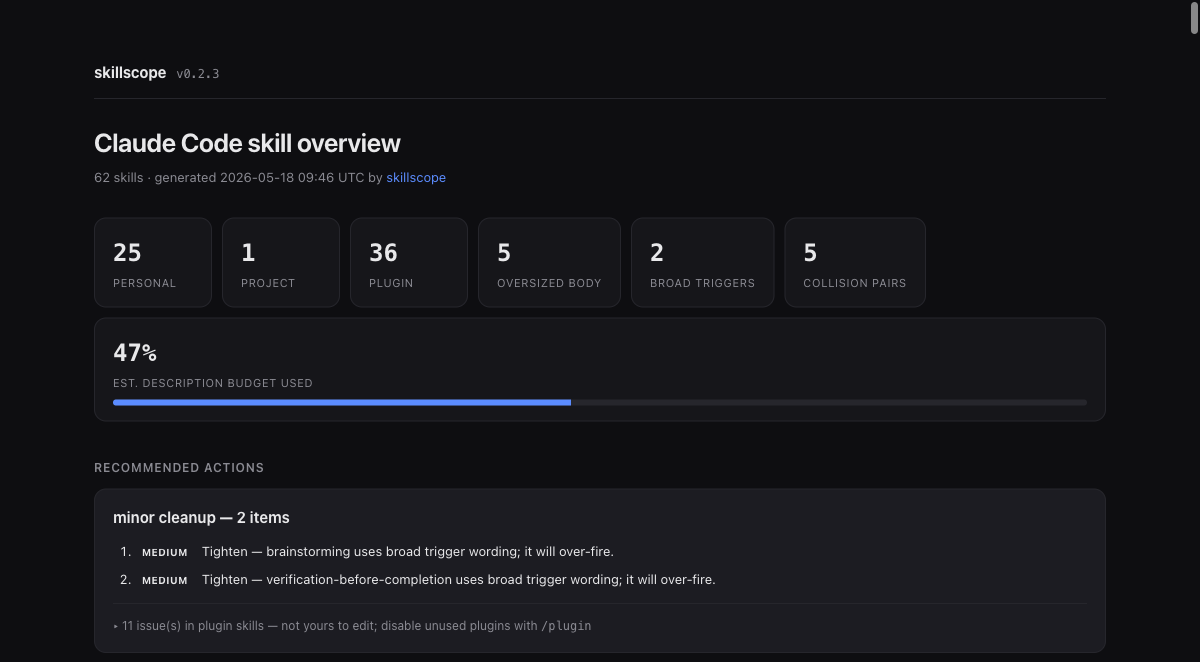
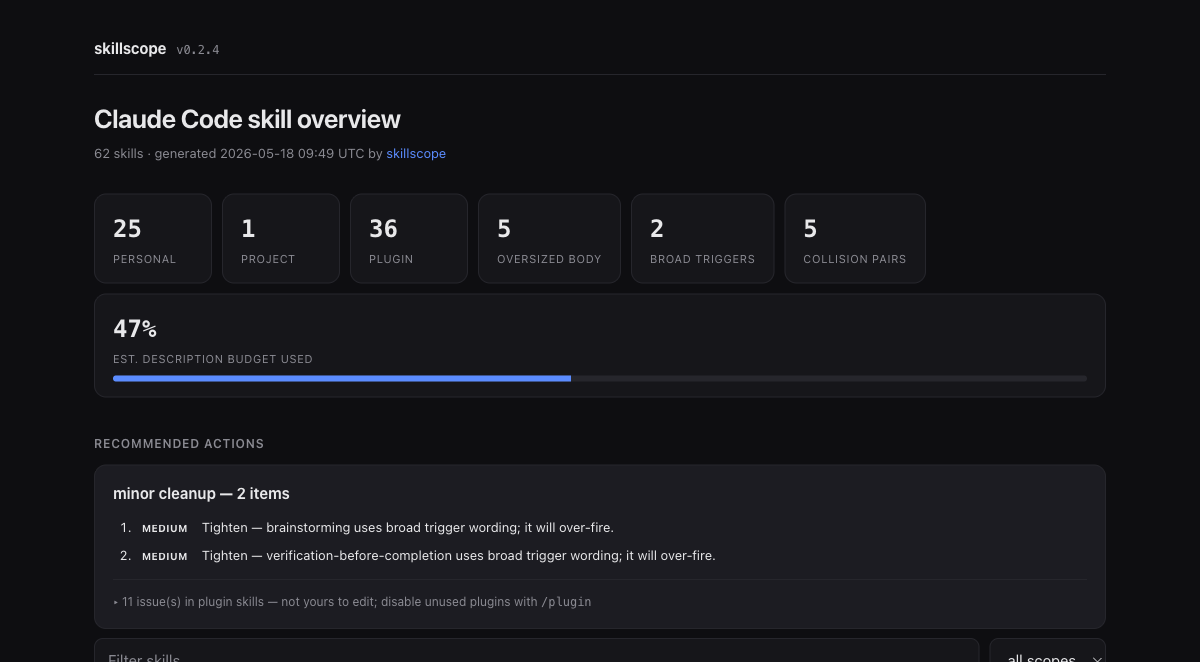
fix: plugin-skill cards drop the alarm status pill
A plugin skill with a problem (e.g. math-olympiad with no description)
still rendered a red "needs attention" card pill deep in the body,
contradicting the verdict and implying the user must act. Plugin cards
now show only their scope badge and informational warnings — no alarm
headline, since the user cannot edit a plugin skill. Consistent with
the action-list split.

diff --git a/skillscope.py b/skillscope.py
@@ -21,7 +21,7 @@ from datetime import datetime, timezone
 
 # --- constants ---------------------------------------------------------------
 
-VERSION = "0.2.3"
+VERSION = "0.2.4"
 # Official guideline: keep a SKILL.md body under 500 lines.
 BODY_LINE_LIMIT = 500
 # Official cap: description + when_to_use is truncated at 1536 chars in the
@@ -529,12 +529,17 @@ def _render_card(s, e):
     search = (s["name"] + " " + s.get("trigger_text", s["description"])).lower()
     out = [f"<div class=card data-scope=\"{e(s['scope'])}\" "
            f"data-search=\"{e(search)}\">"]
-    out.append("<div class=top>"
-               f"<span class=name>{e(s['name'])}</span>"
-               f"<span class=scope>{e(s['scope'])}"
-               + (f": {e(s['origin'])}" if s.get("origin") else "")
-               + "</span>"
-               f"<span class='pill {sev}'>{label}</span></div>")
+    top = ("<div class=top>"
+           f"<span class=name>{e(s['name'])}</span>"
+           f"<span class=scope>{e(s['scope'])}"
+           + (f": {e(s['origin'])}" if s.get("origin") else "")
+           + "</span>")
+    # A status pill only on skills the user can act on. Plugin skills still
+    # show informational warnings inside the card, but no alarm headline —
+    # there is nothing for the user to fix in a plugin skill.
+    if s["scope"] != "plugin":
+        top += f"<span class='pill {sev}'>{label}</span>"
+    out.append(top + "</div>")
     desc = s["description"] or "(no description)"
     if len(desc) > 320:
         desc = desc[:320] + "…"

diff --git a/tests/test_skillscope.py b/tests/test_skillscope.py
@@ -148,6 +148,16 @@ class TestCollisionsAndBudget(unittest.TestCase):
         self.assertTrue(actions[0]["editable"])
         self.assertIn("high", verdict)
 
+    def test_plugin_card_has_no_alarm_pill(self):
+        plug = ss.analyse({"name": "mathy", "description": "",
+                           "when_to_use": "", "disable_model_invocation": False,
+                           "user_invocable": True, "allowed_tools": "",
+                           "body_lines": 20, "path": "p", "scope": "plugin",
+                           "origin": "official"})
+        html = ss.render_html([plug], [], {"used_pct": 5})
+        # the plugin card carries its warning, but no alarm headline
+        self.assertNotIn("needs attention", html)
+
     def test_html_injection_is_escaped(self):
         evil = '<script>alert("xss")</script>'
         s = ss.analyse({"name": evil, "description": evil, "when_to_use": "",

diff --git a/CHANGELOG.md b/CHANGELOG.md
@@ -3,6 +3,13 @@
 All notable changes to this project are documented here. Format follows
 [Keep a Changelog](https://keepachangelog.com/).
 
+## [0.2.4] - 2026-05-18
+
+### Changed
+- Plugin-skill cards no longer show an alarm status pill ("needs attention").
+  A plugin skill's problems are not the user's to fix, so the card carries its
+  warnings as information only — consistent with the action list.
+
 ## [0.2.3] - 2026-05-18
 
 ### Changed